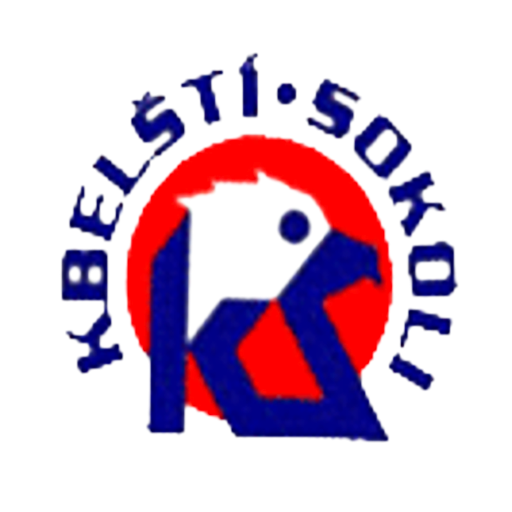
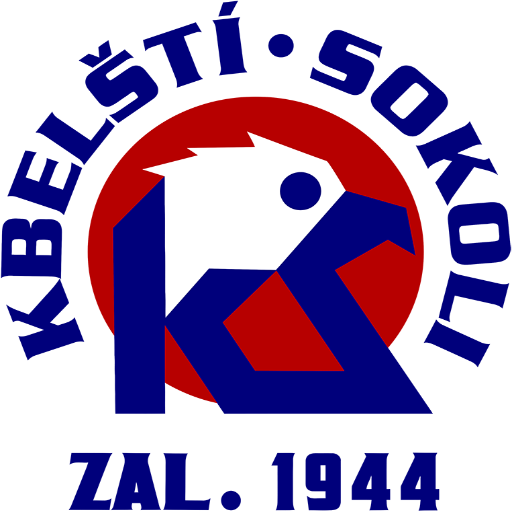
feat(feedback-widget, layout): update design and improve resilience
- Replace primary color references with rose color palette in feedback widget
- Improve form validation and error handling for feedback submission
- Add support for non-JSON server responses in feedback logic
- Include CSRF token meta in all layout templates for improved security
- Update public assets (favicons, icons) for consistent branding refinements

diff --git a/resources/views/partials/feedback-widget.blade.php b/resources/views/partials/feedback-widget.blade.php
@@ -13,7 +13,7 @@
     <!-- Floating Action Button -->
     <button @click="$dispatch('ks-feedback-open')"
             type="button"
-            class="ks-fab-trigger fixed left-4 bottom-[calc(env(safe-area-inset-bottom,0)+16px)] md:left-6 md:bottom-6 w-14 h-14 md:w-12 md:h-12 bg-primary-600 hover:bg-primary-700 text-white rounded-full shadow-2xl transition-all duration-300 flex items-center justify-center group overflow-hidden"
+            class="ks-fab-trigger fixed left-4 bottom-[calc(env(safe-area-inset-bottom,0)+16px)] md:left-6 md:bottom-6 w-14 h-14 md:w-12 md:h-12 bg-rose-600 hover:bg-rose-700 text-white rounded-full shadow-2xl transition-all duration-300 flex items-center justify-center group overflow-hidden"
             style="z-index: 2147483647 !important; background-color: #e11d48 !important; display: flex !important; pointer-events: auto !important; visibility: visible !important; opacity: 1 !important;"
             :class="isOpen ? 'scale-0 opacity-0' : 'scale-100 opacity-100'"
             aria-label="Odeslat zpětnou vazbu">
@@ -50,7 +50,7 @@
             <!-- Header -->
             <div class="px-6 py-4 border-b border-slate-100 flex items-center justify-between bg-slate-50/50">
                 <div class="flex items-center gap-3">
-                    <div class="w-10 h-10 bg-primary-100 text-primary-600 rounded-xl flex items-center justify-center">
+                    <div class="w-10 h-10 bg-rose-100 text-rose-600 rounded-xl flex items-center justify-center">
                         <i class="fa-light fa-comment-dots text-xl"></i>
                     </div>
                     <div>
@@ -72,19 +72,19 @@
                             <label class="text-sm font-semibold text-slate-700">Typ hlášení <span class="text-red-500">*</span></label>
                             <div class="grid grid-cols-3 gap-2">
                                 <label class="relative flex flex-col items-center justify-center p-3 rounded-xl border-2 cursor-pointer transition-all"
-                                       :class="form.type === 'bug' ? 'border-primary-500 bg-primary-50 text-primary-700' : 'border-slate-100 bg-slate-50 text-slate-500 hover:bg-slate-100'">
+                                       :class="form.type === 'bug' ? 'border-rose-500 bg-rose-50 text-rose-700' : 'border-slate-100 bg-slate-50 text-slate-500 hover:bg-slate-100'">
                                     <input type="radio" x-model="form.type" value="bug" class="sr-only">
                                     <i class="fa-light fa-bug mb-1"></i>
                                     <span class="text-[10px] font-bold uppercase tracking-wider">Bug</span>
                                 </label>
                                 <label class="relative flex flex-col items-center justify-center p-3 rounded-xl border-2 cursor-pointer transition-all"
-                                       :class="form.type === 'idea' ? 'border-primary-500 bg-primary-50 text-primary-700' : 'border-slate-100 bg-slate-50 text-slate-500 hover:bg-slate-100'">
+                                       :class="form.type === 'idea' ? 'border-rose-500 bg-rose-50 text-rose-700' : 'border-slate-100 bg-slate-50 text-slate-500 hover:bg-slate-100'">
                                     <input type="radio" x-model="form.type" value="idea" class="sr-only">
                                     <i class="fa-light fa-lightbulb mb-1"></i>
                                     <span class="text-[10px] font-bold uppercase tracking-wider">Nápad</span>
                                 </label>
                                 <label class="relative flex flex-col items-center justify-center p-3 rounded-xl border-2 cursor-pointer transition-all"
-                                       :class="form.type === 'feedback' ? 'border-primary-500 bg-primary-50 text-primary-700' : 'border-slate-100 bg-slate-50 text-slate-500 hover:bg-slate-100'">
+                                       :class="form.type === 'feedback' ? 'border-rose-500 bg-rose-50 text-rose-700' : 'border-slate-100 bg-slate-50 text-slate-500 hover:bg-slate-100'">
                                     <input type="radio" x-model="form.type" value="feedback" class="sr-only">
                                     <i class="fa-light fa-message-smile mb-1"></i>
                                     <span class="text-[10px] font-bold uppercase tracking-wider">Ostatní</span>
@@ -95,7 +95,7 @@
                         <!-- Severity -->
                         <div class="space-y-1.5">
                             <label class="text-sm font-semibold text-slate-700">Závažnost</label>
-                            <select x-model="form.severity" class="w-full rounded-xl border border-slate-200 px-4 py-2.5 text-sm focus:ring-primary-500 focus:border-primary-500 bg-white shadow-sm transition-all">
+                            <select x-model="form.severity" class="w-full rounded-xl border border-slate-200 px-4 py-2.5 text-sm focus:ring-rose-500 focus:border-rose-500 bg-white shadow-sm transition-all">
                                 <option value="low">Nízká</option>
                                 <option value="medium">Střední</option>
                                 <option value="high">Vysoká / Kritická</option>
@@ -107,14 +107,14 @@
                     <div class="space-y-1.5 mb-4">
                         <label class="text-sm font-semibold text-slate-700">Nadpis <span class="text-red-500">*</span></label>
                         <input type="text" x-model="form.title" required maxlength="120" placeholder="Stručně popište problém..."
-                               class="w-full rounded-xl border border-slate-200 px-4 py-2.5 text-sm focus:ring-primary-500 focus:border-primary-500 bg-white shadow-sm transition-all">
+                               class="w-full rounded-xl border border-slate-200 px-4 py-2.5 text-sm focus:ring-rose-500 focus:border-rose-500 bg-white shadow-sm transition-all">
                     </div>
 
                     <!-- Description -->
                     <div class="space-y-1.5 mb-4">
                         <label class="text-sm font-semibold text-slate-700">Popis <span class="text-red-500">*</span></label>
                         <textarea x-model="form.description" required rows="4" maxlength="5000" placeholder="Detailnější popis..."
-                                  class="w-full rounded-xl border border-slate-200 px-4 py-2.5 text-sm focus:ring-primary-500 focus:border-primary-500 bg-white shadow-sm transition-all"></textarea>
+                                  class="w-full rounded-xl border border-slate-200 px-4 py-2.5 text-sm focus:ring-rose-500 focus:border-rose-500 bg-white shadow-sm transition-all"></textarea>
                     </div>
 
                     <!-- Steps (Conditional for bugs) -->
@@ -125,7 +125,7 @@
                          class="space-y-1.5 mb-4">
                         <label class="text-sm font-semibold text-slate-700">Kroky k reprodukci</label>
                         <textarea x-model="form.steps" rows="3" maxlength="10000" placeholder="1. Klikněte na... 2. Pak udělejte..."
-                                  class="w-full rounded-xl border border-slate-200 px-4 py-2.5 text-sm focus:ring-primary-500 focus:border-primary-500 bg-white shadow-sm transition-all"></textarea>
+                                  class="w-full rounded-xl border border-slate-200 px-4 py-2.5 text-sm focus:ring-rose-500 focus:border-rose-500 bg-white shadow-sm transition-all"></textarea>
                     </div>
 
                     <!-- Options -->
@@ -133,27 +133,27 @@
                         <h4 class="text-xs font-bold text-slate-400 uppercase tracking-widest mb-3">Přiložit k hlášení</h4>
                         <div class="grid grid-cols-1 md:grid-cols-2 gap-3">
                             <label class="flex items-center gap-2 cursor-pointer group">
-                                <input type="checkbox" x-model="options.screenshot" class="rounded text-primary-600 focus:ring-primary-500">
+                                <input type="checkbox" x-model="options.screenshot" class="rounded text-rose-600 focus:ring-rose-500">
                                 <span class="text-sm text-slate-600 group-hover:text-slate-900">Aktuální screenshot</span>
                             </label>
                             <label class="flex items-center gap-2 cursor-pointer group">
-                                <input type="checkbox" x-model="options.logs" class="rounded text-primary-600 focus:ring-primary-500">
+                                <input type="checkbox" x-model="options.logs" class="rounded text-rose-600 focus:ring-rose-500">
                                 <span class="text-sm text-slate-600 group-hover:text-slate-900">Logy konzole (<span x-text="logs ? logs.length : 0"></span>)</span>
                             </label>
                             <label class="flex items-center gap-2 cursor-pointer group">
-                                <input type="checkbox" x-model="options.network" class="rounded text-primary-600 focus:ring-primary-500">
+                                <input type="checkbox" x-model="options.network" class="rounded text-rose-600 focus:ring-rose-500">
                                 <span class="text-sm text-slate-600 group-hover:text-slate-900">Chyby sítě (<span x-text="networkFailures ? networkFailures.length : 0"></span>)</span>
                             </label>
                             <label class="flex items-center gap-2 cursor-pointer group">
-                                <input type="checkbox" x-model="options.performance" class="rounded text-primary-600 focus:ring-primary-500">
+                                <input type="checkbox" x-model="options.performance" class="rounded text-rose-600 focus:ring-rose-500">
                                 <span class="text-sm text-slate-600 group-hover:text-slate-900">Výkonnostní data</span>
                             </label>
                             <label class="flex items-center gap-2 cursor-pointer group">
-                                <input type="checkbox" x-model="options.clicks" class="rounded text-primary-600 focus:ring-primary-500">
+                                <input type="checkbox" x-model="options.clicks" class="rounded text-rose-600 focus:ring-rose-500">
                                 <span class="text-sm text-slate-600 group-hover:text-slate-900">Kliky (aktivovat)</span>
                             </label>
                             <label class="flex items-center gap-2 cursor-pointer group">
-                                <input type="checkbox" x-model="options.dom" class="rounded text-primary-600 focus:ring-primary-500">
+                                <input type="checkbox" x-model="options.dom" class="rounded text-rose-600 focus:ring-rose-500">
                                 <span class="text-sm text-slate-600 group-hover:text-slate-900">DOM Snapshot (struktura)</span>
                             </label>
                         </div>
@@ -173,7 +173,7 @@
                         Zrušit
                     </button>
                     <button @click="submitFeedback()" :disabled="submitting" type="button"
-                            class="px-6 py-2 bg-primary-600 hover:bg-primary-700 disabled:bg-slate-300 text-white text-sm font-bold rounded-xl shadow-lg shadow-primary-500/30 transition-all flex items-center gap-2">
+                            class="px-6 py-2 bg-rose-600 hover:bg-rose-700 disabled:bg-slate-300 text-white text-sm font-bold rounded-xl shadow-lg shadow-rose-500/30 transition-all flex items-center gap-2">
                         <template x-if="submitting">
                             <i class="fa-light fa-spinner fa-spin"></i>
                         </template>
@@ -663,16 +663,27 @@
                             body: JSON.stringify(payload)
                         });
 
-                        const result = await response.json();
+                        const contentType = response.headers.get('content-type');
+                        let result;
+
+                        if (contentType && contentType.includes('application/json')) {
+                            result = await response.json();
+                        } else {
+                            // Non-JSON response (likely a redirect or server error page)
+                            const text = await response.text();
+                            console.error('Server returned non-JSON response:', text.substring(0, 500));
+                            throw new Error(`Server returned status ${response.status} with non-JSON content.`);
+                        }
+
                         if (response.ok) {
-                            this.showStatus(result.message, 'success');
+                            this.showStatus(result.message || 'Feedback byl úspěšně odeslán.', 'success');
                             this.resetForm();
                             this.closeModal();
                         } else {
-                            this.showStatus(result.message || 'Chyba při odesílání.', 'error');
+                            this.showStatus(result.message || result.error || 'Chyba při odesílání.', 'error');
                         }
                     } catch (e) {
-                        this.showStatus('Došlo k neočekávané chybě.', 'error');
+                        this.showStatus('Došlo k neočekávané chybě: ' + (e.message || 'Neznámá chyba'), 'error');
                         console.error(e);
                     } finally {
                         this.submitting = false;

diff --git a/resources/views/layouts/member.blade.php b/resources/views/layouts/member.blade.php
@@ -5,6 +5,7 @@
     <meta name="viewport" content="width=device-width, initial-scale=1.0">
     <link rel="icon" type="image/x-icon" href="/favicon.ico">
     <title>{{ $title ?? __('nav.member_section') }} | {{ $branding['club_name'] ?? 'Kbelští sokoli' }}</title>
+    <meta name="csrf-token" content="{{ csrf_token() }}">
 
     <!-- Fonts -->
     <link rel="preconnect" href="https://fonts.googleapis.com">

diff --git a/resources/views/layouts/admin.blade.php b/resources/views/layouts/admin.blade.php
@@ -4,6 +4,7 @@
     <meta charset="UTF-8">
     <meta name="viewport" content="width=device-width, initial-scale=1.0">
     <title>{{ __('nav.administration') }} - {{ $branding['club_name'] ?? 'Kbelští sokoli' }}</title>
+    <meta name="csrf-token" content="{{ csrf_token() }}">
     @vite(['resources/css/app.css', 'resources/js/app.js'])
 </head>
 <body>

diff --git a/resources/views/layouts/auth.blade.php b/resources/views/layouts/auth.blade.php
@@ -22,6 +22,7 @@
     <meta charset="UTF-8">
     <meta name="viewport" content="width=device-width, initial-scale=1.0">
     <title>{{ $title ?? ($branding['club_name'] ?? 'Kbelští sokoli') }}</title>
+    <meta name="csrf-token" content="{{ csrf_token() }}">
 
     <!-- Favicon -->
     <link rel="icon" type="image/x-icon" href="/favicon.ico">

diff --git a/resources/views/layouts/public.blade.php b/resources/views/layouts/public.blade.php
@@ -87,6 +87,7 @@
     @endforeach
 
     <meta name="theme-color" content="{{ $branding['colors']['red'] ?? '#e11d48' }}">
+    <meta name="csrf-token" content="{{ csrf_token() }}">
     <style>{!! $branding_css !!}</style>
     <style>
         /* Stabilizace ikon pro zamezení FOUC (problikávání velkých glyfů) */
